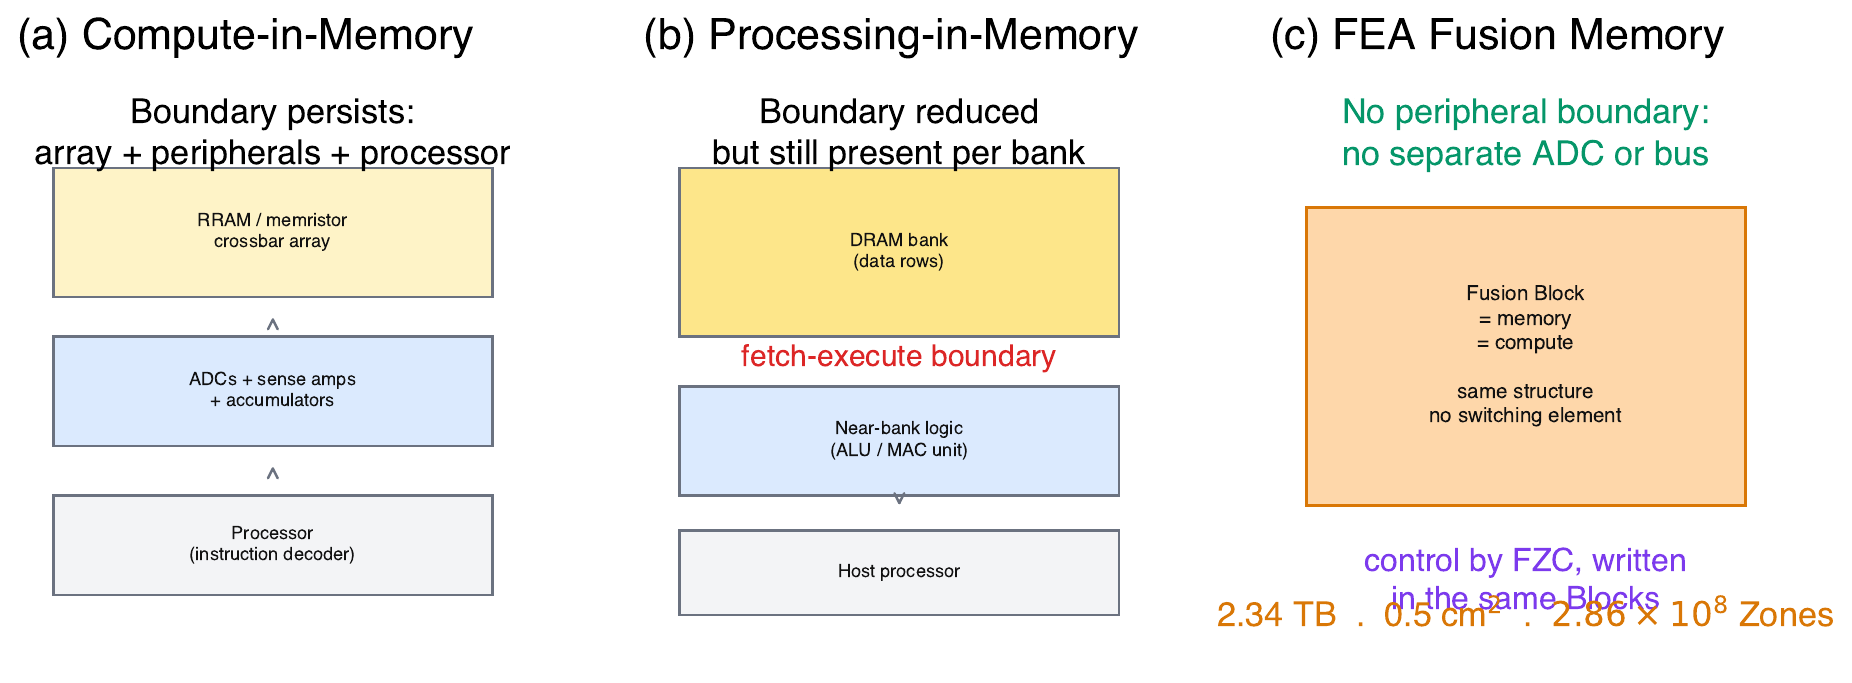
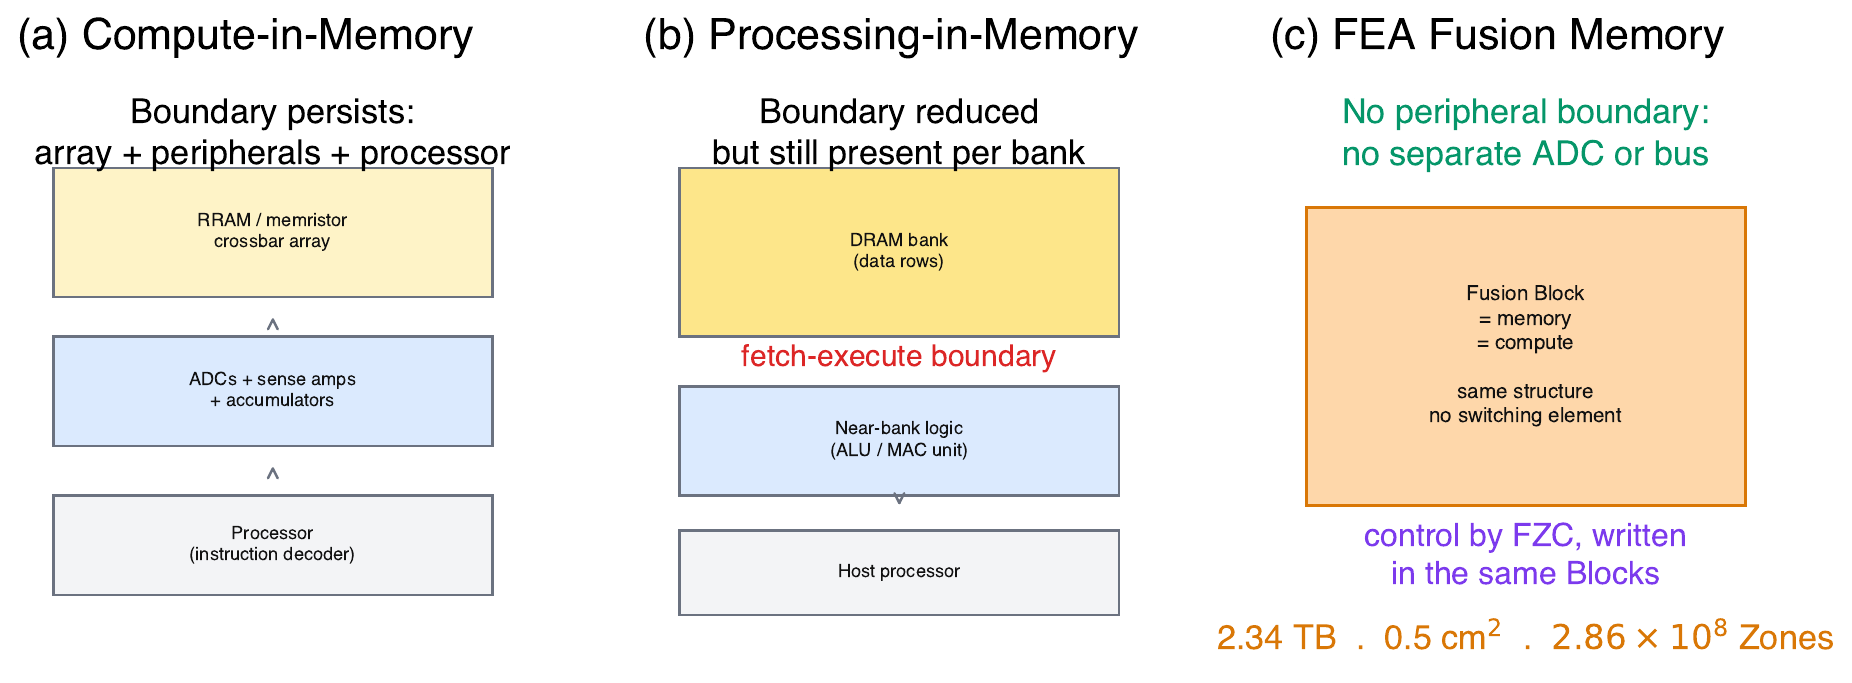
fix README figures: two text collisions, and fig1's unbuildable aspect
Both README images were defective. Verified by an independent visual pass:

- fusion_block_hierarchy.png: the purple FZC/535 callout collided with the
  black "66,071 blocks = 65,536 data + 535 FZC" line, making both ambiguous.
- cim_pim_fea.png: the purple "control by FZC, written / in the same Blocks"
  note overlapped the orange "2.34 TB . 0.5 cm^2 . 2.86e8 Zones" line.

Both originated in the source PDFs, not in export or GitHub.

Root cause: fig1 was a 1x4 strip drawn at 13.0 in and shown in the paper at
6.2 in -- a x0.44 shrink. Making its labels legible at that size required
scaling the fonts x1.92, which grew the text upward into its neighbour and
pushed 68 pt of text past the canvas (bbox='tight' silently expanded the
canvas to hide it).

- fig1 redrawn as a 2x2 grid at 7.4 x 7.4 in, designed near display size, with
  the original font sizes restored. Effective label size at manuscript scale is
  6.34 pt (it was 3.64 pt before this session's scaling), and the callout was
  moved clear of the count line.
- fig11's purple note moved up and the orange metrics line moved down.
- README hierarchy image shown at 62% instead of 90%, since it is no longer a
  wide banner.

Verified: zero figures now have text outside their own canvas (fig1 was the
only one, at +68.6 pt); layout linter reports zero collisions; manuscript
builds with 0 fatal,0 undefined,0 overfull,0 underfull and0 off-sheet words.

Changed region(s): [[0.6463, 0.7687, 1.0, 0.9531]]

diff --git a/README.md b/README.md
@@ -19,7 +19,7 @@ refresh, boot and recovery over a transport called *Slingshot*, whose model
 states no physical time or energy per hop.
 
 <p align="center">
-  <img src="docs/img/fusion_block_hierarchy.png" width="90%" alt="Architectural hierarchy: 5-atom Fusion Block, 64-bit Word, and the Zone on H-Si(100)">
+  <img src="docs/img/fusion_block_hierarchy.png" width="62%" alt="Architectural hierarchy: 5-atom Fusion Block, 64-bit Word, and the Zone on H-Si(100)">
 </p>
 
 <p align="center"><em>Fusion Block (a), 64-bit Word (b), and the Zone (c).</em></p>
